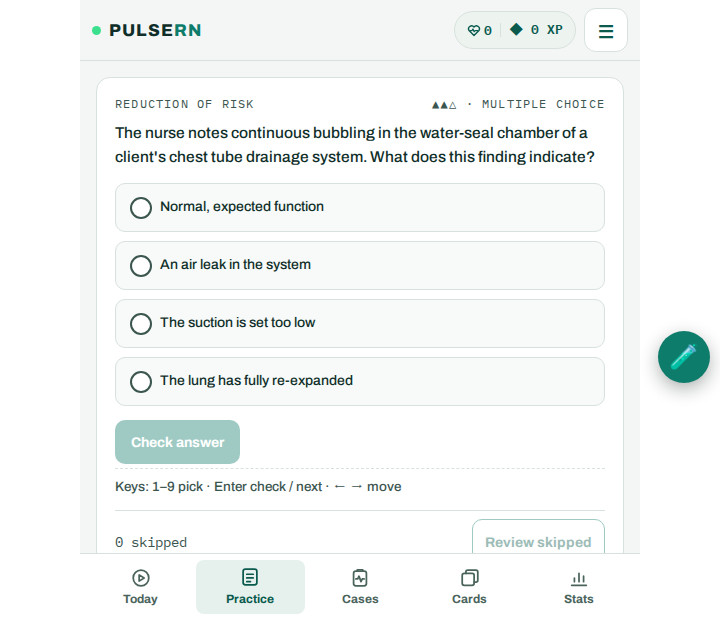
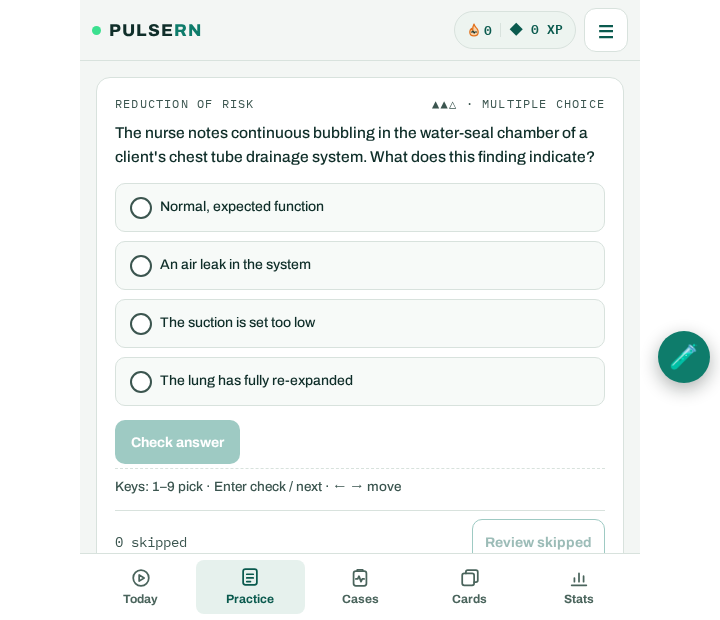
Draw the streak as a flame with an ECG line inside.
StreakGlyph now uses the chosen flame-and-heartbeat mark, tightened so the trace stays fully inside the bowl at 14–22px. Flame and ECG colors come from theme variables, including a readable pair on the dark moment hero. Product screenshots were recaptured with the CI path so the published images show the new glyph.

diff --git a/pulsern/src/rewards-ui.jsx b/pulsern/src/rewards-ui.jsx
@@ -20,11 +20,13 @@ export function friendlyDay(day, today) {
 }
 
 /* ---------- glyphs ---------- */
+/* Flame with an ECG line fully inside the bowl. Option 3 of the
+   streak-icon mockup, tightened so the trace stays readable at 14–22px. */
 export function StreakGlyph({ size = 14, className = "" }) {
   return (
-    <svg className={"rw-glyph " + className} width={size} height={size} viewBox="0 0 16 16" aria-hidden="true" focusable="false">
-      <path d="M8 14.2 2.6 8.9A3.3 3.3 0 0 1 8 4.6a3.3 3.3 0 0 1 5.4 4.3Z" fill="none" stroke="currentColor" strokeWidth="1.6" strokeLinejoin="round" />
-      <path d="M3.6 8.6h2.2l1-1.8 1.4 3.2 1-1.4h3.2" fill="none" stroke="currentColor" strokeWidth="1.4" strokeLinecap="round" strokeLinejoin="round" />
+    <svg className={"rw-glyph rw-streak " + className} width={size} height={size} viewBox="0 0 16 16" aria-hidden="true" focusable="false">
+      <path className="rw-streak-flame" d="M8 1.3c.4 2.2 2 3.3 3.2 4.9 1 1.3 1.6 2.6 1.6 4 0 2.6-2.1 4.5-4.8 4.5S3.2 12.8 3.2 10.2c0-1.6.8-3 1.9-4 .1 1.1.6 1.9 1.4 2.3-.2-2.6.3-5.1 1.5-7.2Z" />
+      <path className="rw-streak-ecg" d="M5.05 10.35h1.2l.7-1.25 1.15 2.5.7-1.25h2.2" />
     </svg>
   );
 }
@@ -422,6 +424,9 @@ export function RewardsStyle() {
     <style>{`
       .sr-only{position:absolute;width:1px;height:1px;overflow:hidden;clip:rect(0 0 0 0);white-space:nowrap}
       .rw-glyph{display:inline-block;vertical-align:-2px;flex:0 0 auto}
+      .rw-streak-flame{fill:var(--streak-flame-fill);stroke:var(--streak-flame);stroke-width:1.4;stroke-linejoin:round}
+      .rw-streak-ecg{fill:none;stroke:var(--streak-ecg);stroke-width:1.2;stroke-linecap:round;stroke-linejoin:round}
+      .rw-moment-hero{--streak-flame-fill:var(--streak-flame-fill-on-mon);--streak-ecg:var(--streak-ecg-on-mon)}
       .rw-row-between{display:flex;justify-content:space-between;align-items:center;gap:8px}
       .rw-count{font-size:12px;font-weight:600;color:var(--accent-ink);background:var(--chip-bg);border-radius:99px;padding:3px 9px}
       /* insignia + dial */

diff --git a/pulsern/src/App.jsx b/pulsern/src/App.jsx
@@ -3727,6 +3727,8 @@ export function Style() {
         --surface:#F7FAF8; --line:#D8E2DD; --bar-bg:#E7EFEA;
         --teal:#0E7C6B; --btn-ink:#FFFFFF; --accent-ink:#0A5A4E;
         --mon:#0C201D; --ecg:#3BE08F; --mon-track:#24433C;
+        --streak-flame:#E2701A; --streak-flame-fill:#F8D2A8; --streak-ecg:var(--ink);
+        --streak-flame-fill-on-mon:#5A3514; --streak-ecg-on-mon:#EAF1ED;
         --amber:#E9A23B; --coral:#D9503F; --danger-ink:#B23A2B;
         --pick-bg:#E8F4F0; --right-bg:#DDF2E7; --wrong-bg:#FBE7E3;
         --ok-bg:#E9F6EF; --ok-line:#BCE4CE; --no-bg:#FBEFEC; --no-line:#F0C8C0;
@@ -3738,6 +3740,8 @@ export function Style() {
         /* DIM (night review) — charcoal, not #000, to avoid halation */
         --paper:#151A18; --ink:#EAF1ED; --card:#1D2523; --muted:#B4C7BF;
         --mon-track:#24433C;
+        --streak-flame:#F08A24; --streak-flame-fill:#5A3514; --streak-ecg:var(--ink);
+        --streak-flame-fill-on-mon:#5A3514; --streak-ecg-on-mon:#EAF1ED;
         --surface:#242D2A; --line:#33403B; --bar-bg:#2A3430;
         --teal:#2FA78F; --btn-ink:#06231D; --accent-ink:#8CDCC8;
         --amber:#D9A24E; --coral:#E0705E; --danger-ink:#F2A296;

diff --git a/pulsern/tests/review3.test.js b/pulsern/tests/review3.test.js
@@ -93,6 +93,20 @@ describe("Codex P2 wiring", () => {
     expect(ui).toContain("var(--mon-track)");
     expect(ui).not.toContain("#24433C");
   });
+  it("draws the streak as a flame with an ECG line, colored by theme variables", () => {
+    const ui = fs.readFileSync("src/rewards-ui.jsx", "utf8");
+    const glyph = ui.slice(ui.indexOf("export function StreakGlyph"), ui.indexOf("export function ShieldGlyph"));
+    expect(glyph).toContain("rw-streak-flame");
+    expect(glyph).toContain("rw-streak-ecg");
+    expect(glyph).toContain("M8 1.3c.4 2.2"); // flame
+    expect(glyph).not.toMatch(/#[0-9A-Fa-f]{3,8}/);
+    expect(ui).toContain("var(--streak-flame-fill)");
+    expect(ui).toContain("var(--streak-flame)");
+    expect(ui).toContain("var(--streak-ecg)");
+    expect(app).toContain("--streak-flame:#E2701A");
+    expect(app).toContain("--streak-ecg:var(--ink)");
+    expect(app).toMatch(/data-theme="dim"[\s\S]{0,500}--streak-flame:/);
+  });
 });
 
 describe("N1: unreadable saved progress", () => {
